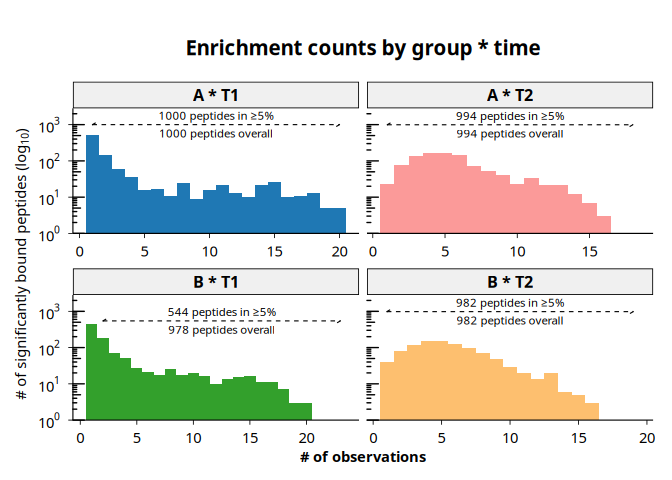
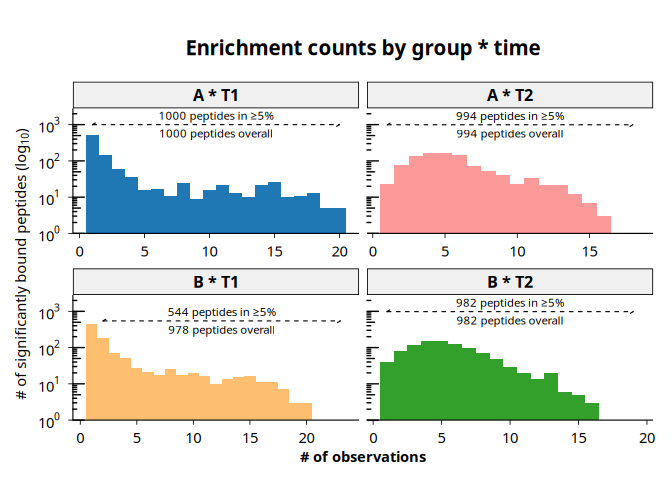
Updated README, removed unnecessary files

Changed region(s): [[0.5625, 0.6875, 0.9062, 0.875], [0.125, 0.6562, 0.4688, 0.875]]

diff --git a/README.md b/README.md
@@ -8,7 +8,7 @@ coverage](https://codecov.io/gh/Polymerase3/phiper/graph/badge.svg)](https://app
 [![R-CMD-check](https://github.com/Polymerase3/phiper/actions/workflows/R-CMD-check.yaml/badge.svg)](https://github.com/Polymerase3/phiper/actions/workflows/R-CMD-check.yaml)
 [![pkgcheck](https://github.com/Polymerase3/phiper/workflows/pkgcheck/badge.svg)](https://github.com/Polymerase3/phiper/actions?query=workflow%3Apkgcheck)
 [![Project Status:
-Active](https://www.repostatus.org/badges/latest/active.svg)](https://www.repostatus.org/#active)
+Active/Unstable](https://www.repostatus.org/badges/latest/active.svg)](https://www.repostatus.org/#active)
 [![Lifecycle:
 experimental](https://img.shields.io/badge/lifecycle-experimental-orange.svg)](https://lifecycle.r-lib.org/articles/stages.html#experimental)
 
@@ -34,7 +34,7 @@ pak::pak("Polymerase3/phiper")
 devtools::install_github("Polymerase3/phiper")
 ```
 
-## Minimal example
+## Usage
 
 For testing, exploration, and minimal examples we provide the
 `phip_mixture` dataset. It is a simulated PhIP-Seq–like antibody
@@ -130,15 +130,15 @@ plot_enrichment_counts(
   interaction_only  = TRUE,
   annotation_size   = 3
 )
-#> [15:36:06] INFO  Plotting enrichment counts (<phip_data>)
+#> [15:47:57] INFO  Plotting enrichment counts (<phip_data>)
 #>                  -> group_cols: 'group', 'time'
-#> [15:36:06] INFO  building enrichment count plot
+#> [15:47:57] INFO  building enrichment count plot
 #>                  -> grouping variable: '..phip_interaction..'
-#> [15:36:06] OK    plot built
-#> [15:36:06] OK    building enrichment count plot - done
-#>                  -> elapsed: 0.147s
-#> [15:36:06] OK    Plotting enrichment counts (<phip_data>) - done
+#> [15:47:57] OK    plot built
+#> [15:47:57] OK    building enrichment count plot - done
 #>                  -> elapsed: 0.151s
+#> [15:47:57] OK    Plotting enrichment counts (<phip_data>) - done
+#>                  -> elapsed: 0.155s
 ```
 
 <img src="man/figures/README-unnamed-chunk-7-1.png" width="100%" />
@@ -162,29 +162,29 @@ alpha <- compute_alpha_diversity(
   group_interaction = TRUE,
   interaction_only  = TRUE
 )
-#> [15:36:07] INFO  Peptide library attached on main connection
+#> [15:47:58] INFO  Peptide library attached on main connection
 #>                    - available columns: peptide_id, aa_seq, pos, len_seq,
 #>                      Fullname, Description, is_IEDB_or_cntrl, is_auto …(+22)
-#> [15:36:07] INFO  Computing alpha diversity (<phip_data>)
+#> [15:47:58] INFO  Computing alpha diversity (<phip_data>)
 #>                  -> group_cols: 'group', 'time'; ranks: 'peptide_id'
-#> [15:36:07] OK    Computing alpha diversity (<phip_data>) - done
-#>                  -> elapsed: 0.115s
+#> [15:47:58] OK    Computing alpha diversity (<phip_data>) - done
+#>                  -> elapsed: 0.116s
 
 head(alpha)
 #> $`group * time`
 #> # A tibble: 80 × 7
 #>    rank       sample_id phip_interaction subject_id richness simpson_diversity
 #>    <chr>      <chr>     <chr>            <chr>         <int>             <dbl>
-#>  1 peptide_id B_T2_1    B * T2           1               262             0.996
-#>  2 peptide_id A_T1_14   A * T1           14              209             0.995
-#>  3 peptide_id B_T1_15   B * T1           15              165             0.994
-#>  4 peptide_id B_T1_17   B * T1           17              146             0.993
-#>  5 peptide_id B_T2_17   B * T2           17              285             0.996
-#>  6 peptide_id B_T1_20   B * T1           20              170             0.994
-#>  7 peptide_id B_T1_22   B * T1           22              177             0.994
-#>  8 peptide_id B_T1_23   B * T1           23              157             0.994
-#>  9 peptide_id A_T1_5    A * T1           5               192             0.995
-#> 10 peptide_id B_T2_8    B * T2           8               275             0.996
+#>  1 peptide_id B_T1_13   B * T1           13              141             0.993
+#>  2 peptide_id A_T2_13   A * T2           13              333             0.997
+#>  3 peptide_id B_T2_13   B * T2           13              282             0.996
+#>  4 peptide_id B_T2_22   B * T2           22              317             0.997
+#>  5 peptide_id B_T2_23   B * T2           23              303             0.997
+#>  6 peptide_id B_T1_3    B * T1           3               174             0.994
+#>  7 peptide_id B_T2_5    B * T2           5               283             0.996
+#>  8 peptide_id A_T1_6    A * T1           6               187             0.995
+#>  9 peptide_id B_T1_7    B * T1           7               169             0.994
+#> 10 peptide_id A_T2_8    A * T2           8               310             0.997
 #> # ℹ 70 more rows
 #> # ℹ 1 more variable: shannon_diversity <dbl>
 ```
@@ -205,10 +205,10 @@ plot_alpha_diversity(
       hjust = 1
     )
   )
-#> [15:36:07] INFO  plotting alpha diversity (precomputed)
+#> [15:47:58] INFO  plotting alpha diversity (precomputed)
 #>                  -> metric: richness
-#> [15:36:07] OK    plotting alpha diversity (precomputed) - done
-#>                  -> elapsed: 0.071s
+#> [15:47:58] OK    plotting alpha diversity (precomputed) - done
+#>                  -> elapsed: 0.073s
 ```
 
 <img src="man/figures/README-unnamed-chunk-9-1.png" width="100%" />
@@ -220,13 +220,5 @@ issue on the GitHub tracker:
 
 - <https://github.com/Polymerase3/phiper/issues>
 
-If you would like to contribute code:
-
-1.  Fork the repository and create a feature branch.
-2.  Make your changes, including tests and documentation where
-    appropriate.
-3.  Ensure that `R CMD check` passes locally (or via GitHub Actions).
-4.  Open a pull request describing the changes and their motivation.
-
-We are happy to review contributions and discuss design choices in the
-issue tracker or pull requests.
+If you’d like to contribute, please read
+[CONTRIBUTING.md](CONTRIBUTING.md).
